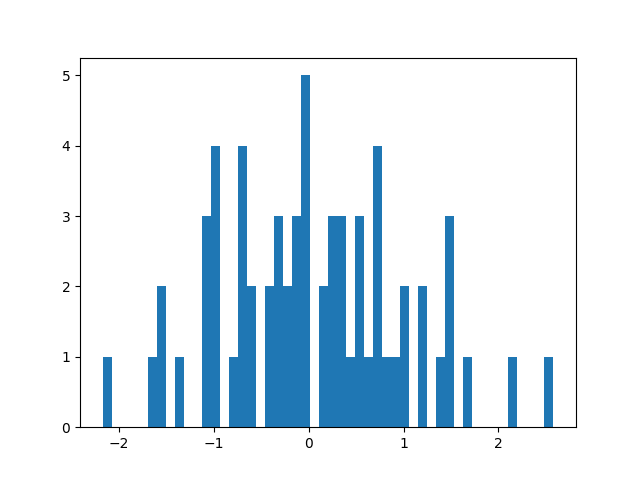
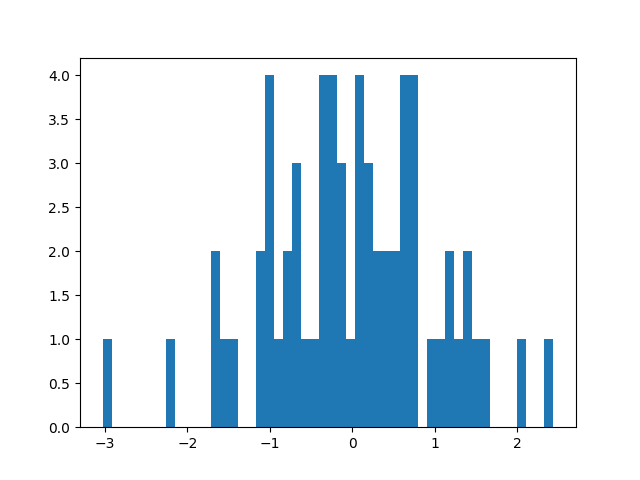
Added the modulus trick

diff --git a/Normal_Sobol/Sobol_Gaussian.py b/Normal_Sobol/Sobol_Gaussian.py
@@ -110,8 +110,8 @@ class Random_generador(object):
         sample = sampler.random_base2(m=size_sobol)
 
 
-        data1=[0,0]
-        for i in (range(1,len(sample))):
+        data1=[]
+        for i in (range(len(sample))):
             u1 = (sample[i][0]+0.01)%1 #****Diegom_test****
             u2 = (sample[i][1]+0.01)%1 # adding random number and modulus to avoid zeros
             r = -np.sqrt(-2*np.log(u1))
@@ -122,6 +122,9 @@ class Random_generador(object):
         for i in (range(1,len(sample))):
             plt.scatter(sample[i][0],sample[i][1])
         plt.show()
+        for i in (range(1,len(sample))):
+            plt.scatter((sample[i][0]+0.01)%1,(sample[i][1]+0.01)%1)
+        plt.show()
         plt.hist(data1, bins=50)
         print("Sobol graphics:size=",self.size,'size_sobol=',size_sobol,'len data1=',len(data1))
         plt.savefig('Sobol_NEW_hist_{}.png'.format(self.size))
@@ -130,8 +133,10 @@ class Random_generador(object):
         print("Sobol graphics")
         plt.savefig('Sobol_NEW_scatter_{}.png'.format(self.size))
         plt.show()
-        print (np.resize(data1,(len(data1),3)))
-        plt.hist(np.resize(data1,(len(data1),3)), bins=50)
+        # print (np.resize(data1,(len(data1),3)))
+        # plt.hist(np.resize(data1,(len(data1),3)), bins=50)
+        print (np.resize(data1,(3,len(data1))).T)
+        plt.hist(np.resize(data1,(3,len(data1))).T, bins=50)
         plt.show()
         return data1
 # -------
@@ -369,10 +374,10 @@ def sobol_norm_rand7(size,n_modes,scramble=False):  # **** Diegom_test ****
         sample = sampler.random_base2(m=size_sobol)
 
 
-        data1=[0,0]
-        for i in (range(1,len(sample))):
-            u1 = sample[i][0]
-            u2 = sample[i][1]
+        data1=[]
+        for i in (range(len(sample))):
+            u1 = (sample[i][0]+0.01)%1
+            u2 = (sample[i][1]+0.01)%1
             r = -np.sqrt(-2*np.log(u1))
             theta = 2*np.pi*u2
             data1.append(r*np.cos(theta))
@@ -380,7 +385,7 @@ def sobol_norm_rand7(size,n_modes,scramble=False):  # **** Diegom_test ****
         m = len(data1)-size
         data2 = data1[m:]
         print (len(data1),len(data2),size)
-        data = np.resize(data2,(n_modes,size))
+        data = np.resize(data2,(n_modes,size)).T
 
         for i in (range(1,len(sample))):
             plt.scatter(sample[i][0],sample[i][1])
@@ -399,12 +404,12 @@ def sobol_norm_rand7(size,n_modes,scramble=False):  # **** Diegom_test ****
 ################################################################################
 ################################################################################
 def main(args):
-    # calculos = Random_generador(50)
+    calculos = Random_generador(50)
     # calculos.sobol_normal(scramble=False)
-    # calculos.sobol_NEW_normal(scramble=False) #!!!!!hay que terminarlo....
+    calculos.sobol_NEW_normal(scramble=False) #!!!!!hay que terminarlo....
     # calculos.random_normal()
     # calculos.random_numpy_normal()
-    sobol_norm_rand7(100,2,scramble=False)
+    # sobol_norm_rand7(100,1,scramble=False)
     return 0
 
 if __name__ == '__main__':
